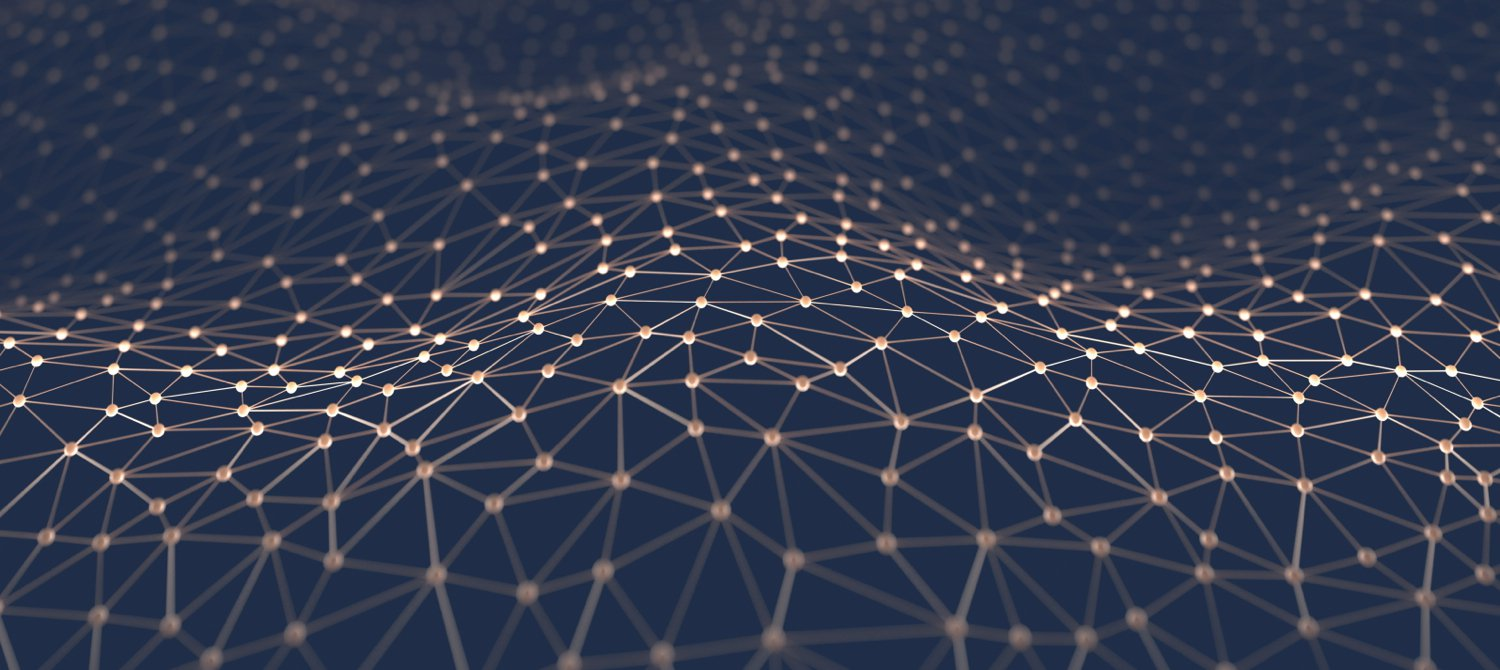
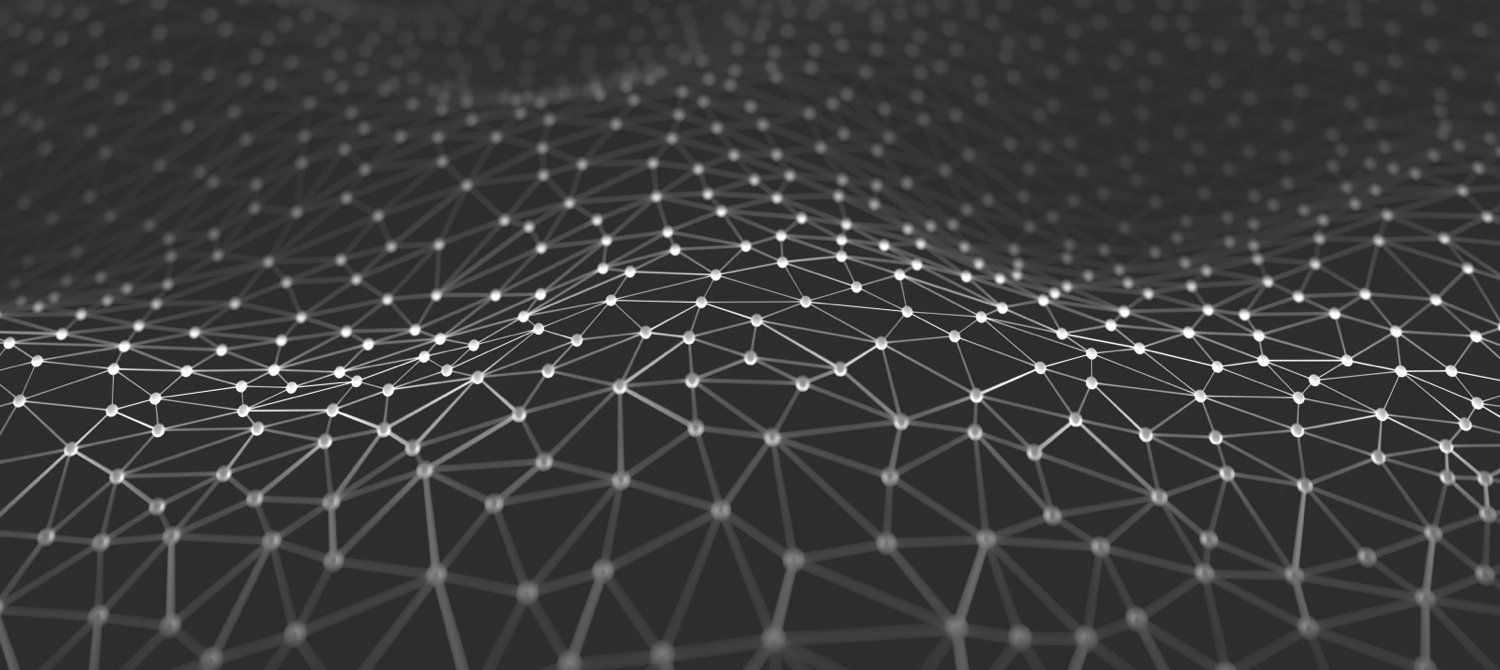
Updated backgrounds - 3 Apr. 2018

diff --git a/index.html b/index.html
@@ -1,6 +1,6 @@
 <!DOCTYPE html>
 <html>
-<title>Welcome to my personal website | Alexandros Stergiou</title>
+<title>Alexandros Stergiou</title>
 <meta name="viewport" content="width=device-width, initial-scale=1">
 <link rel="stylesheet" href="css/design.css">
 <link rel="stylesheet" href="https://fonts.googleapis.com/css?family=Lato">
@@ -170,31 +170,31 @@ body, html {
 
 /* First image */
 .background1 {
-    background-image: url("backgrounds/30.jpg");
+    background-image: url("backgrounds/29.jpg");
     min-height: 99%;
 }
 
 /* Second image*/
 .background2 {
-    background-image: url("backgrounds/39.jpg");
+    background-image: url("backgrounds/42.jpg");
     min-height: 30em;
 }
 
 /* Third image*/
 .background3 {
-    background-image: url("backgrounds/32.jpg");
+    background-image: url("backgrounds/46.jpg");
     min-height: 30em;
 }
 
 /* Fourth image*/
 .background4 {
-    background-image: url("backgrounds/41.jpg");
+    background-image: url("backgrounds/43.jpg");
     min-height: 30em;
 }
 
 /* Fifth image*/
 .background5 {
-    background-image: url("backgrounds/33.jpg");
+    background-image: url("backgrounds/44.jpg");
     min-height: 30em;
 }
 
@@ -260,7 +260,8 @@ img {
   <h3 class="white middle fade">Alexandros Stergiou</h3>
    <h5 class="white middle fade">Utrecht University Computer Science Ph.D. student</h5>
    <div>
-   <a class="white middle fade" href="mailto:a.g.stergiou@uu.nl?Subject=Hello from a friendly website visitor"><i class="fa fa-paper-plane"></i> a.g.stergiou _at_ uu.nl</a>
+   <a class="white middle fade" href="mailto:a.g.stergiou@uu.nl?Subject=Hello from a friendly website visitor"><i class="fa fa-paper-plane"></i> a.g.stergiou@uu.nl</a>
+
 
    <a class="white middle fade" href="https://www.uu.nl/staff/AGStergiou/0" target="_blank"><i class="fa fa-university" target="_blank"></i> UU personal page</a></br>
    </div>
@@ -289,7 +290,7 @@ img {
   <h3 class="middle">Bio</h3>
 
 
-  <p class="middle"><em>My work is focused on Machine Learning, Deep Learning, Computer Vision and Data Mining</em></p>
+  <p class="middle"><em>My work is focused on Computer Vision, Machine Learning and Deep Learning</em></p>
 
   <div class="col hide-small section middle">
 
